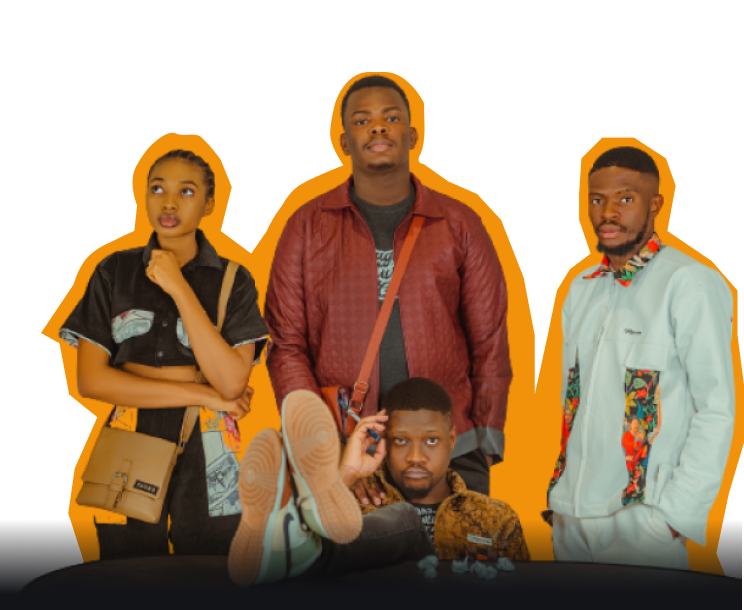
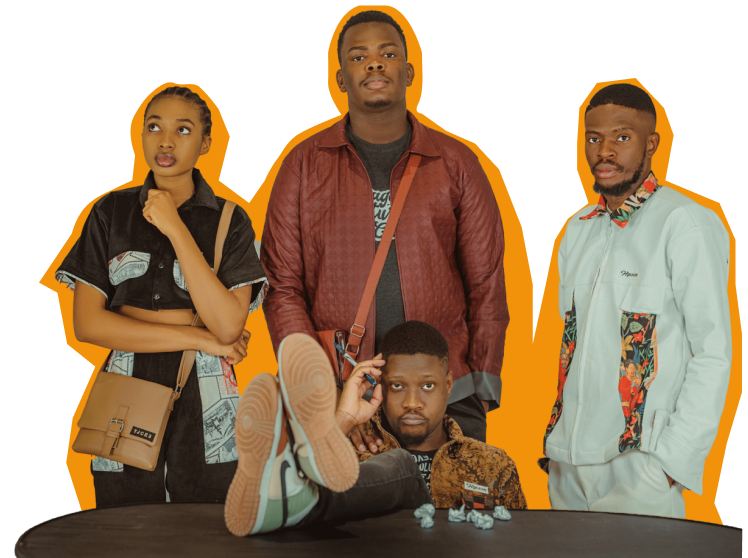
Fixing hero

diff --git a/components/main.jsx b/components/main.jsx
@@ -7,16 +7,16 @@ import Link from 'next/link'
 
 function Main() {
   return (
-    <div id='home' className=' overflow-hidden w-full h-screen relative'> 
+    <div id='home' className='container overflow-hidden w-full min-h-screen relative'> 
      <div className=' ' >
-        <span className=' backdrop-blur-[20px] -z-10 h-full w-full absolute '> </span>
+        <span className=' backdrop-blur-[40px] -z-10 h-full w-full absolute '> </span>
   <span className='absolute  -z-20 inset-x-0 top-5 flex flex-row justify-center translate-x-[30%] items-center mx-auto' >
-  <svg width="383" height="457" viewBox="0 0 383 457" fill="none" xmlns="http://www.w3.org/2000/svg">
-<path fill-rule="evenodd" clip-rule="evenodd" d="M179.78 9.04145C240.598 -4.27955 315.315 -8.6697 357.175 37.4933C398.57 83.142 381.193 155.264 366.737 215.213C355.844 260.384 316.55 287.035 288.142 323.773C251.74 370.849 239.211 455.907 179.78 456.99C120.516 458.069 102.813 375.415 67.4036 327.794C40.2771 291.312 0.276022 260.703 0.00155725 215.213C-0.273918 169.555 36.0529 135.648 66.0369 101.262C99.3956 63.0059 130.245 19.8912 179.78 9.04145Z" fill="#EFD510" fill-opacity="0.2"/>
+  <svg  viewBox="0 0 383 457" fill="none" xmlns="http://www.w3.org/2000/svg" className=' lg:w-1/4 xl:w-1/4 '>
+<path fillRule="evenodd" clipRule="evenodd" d="M179.78 9.04145C240.598 -4.27955 315.315 -8.6697 357.175 37.4933C398.57 83.142 381.193 155.264 366.737 215.213C355.844 260.384 316.55 287.035 288.142 323.773C251.74 370.849 239.211 455.907 179.78 456.99C120.516 458.069 102.813 375.415 67.4036 327.794C40.2771 291.312 0.276022 260.703 0.00155725 215.213C-0.273918 169.555 36.0529 135.648 66.0369 101.262C99.3956 63.0059 130.245 19.8912 179.78 9.04145Z" fill="#EFD510" fillOpacity="0.2"/>
 </svg>
 
     </span>
-      <div className='w-full h-16  grid grid-cols-3 px-5 items-center bg-transparent'> 
+      <div className='w-full h-16  grid grid-cols-3 items-center bg-transparent'> 
         <span> POAI </span>
         <span className='w-full  flex flex-row justify-between items-center ' > 
          <Link href='/#tickets' scroll={true}>Tickets </Link>   
@@ -28,12 +28,13 @@ function Main() {
            
     </div> 
     </div>
-    <span className='text-7xl w-full flex-col z-30 uppercase font-bold  flex items-center justify-center text-center'> 
+    <div className='w-full h-full flex justify-between  flex-col '> 
+    <span className='text-7xl w-full flex-col z-30 uppercase font-bold translate-y-8 flex items-center justify-center text-center'> 
     <span>Cyprus&apos; biggest  </span>
     <span>poetry event </span></span>
-<span className='uppercase w-full -translate-y-24 font-bold  flex items-center justify-center '>
-  <Image src={BkmMain} alt='Poets on an Island' className='w-1/2' /> </span>
- 
+<span className='uppercase w-full font-bold  flex items-center justify-center '>
+  <Image src={BkmMain} alt='Poets on an Island' className='w-3/5' /> </span>
+  </div>
     </div>
   )
   

diff --git a/components/nav.jsx b/components/nav.jsx
@@ -12,7 +12,7 @@ function Nav() {
 </svg>
 
     </span>
-      <div className='w-full h-16  grid grid-cols-3 px-5 items-center bg-transparent'> 
+      <div className='w-full h-16  grid grid-cols-3 items-center bg-transparent'> 
         <span> POAI </span>
         <span className='w-full  flex flex-row justify-between items-center ' > 
          <Link href='/#tickets' scroll={true}>Tickets </Link>   

diff --git a/tailwind.config.js b/tailwind.config.js
@@ -9,6 +9,14 @@ module.exports = {
   theme: {
     container: {
       center: true,
+      padding: {
+        DEFAULT: '0.5rem',
+        sm: '1rem',
+        lg: '2rem',
+        xl: '2rem',
+        '2xl': '3rem',
+        '3xl': '3rem',
+      },
     },
   },
   variants: {
